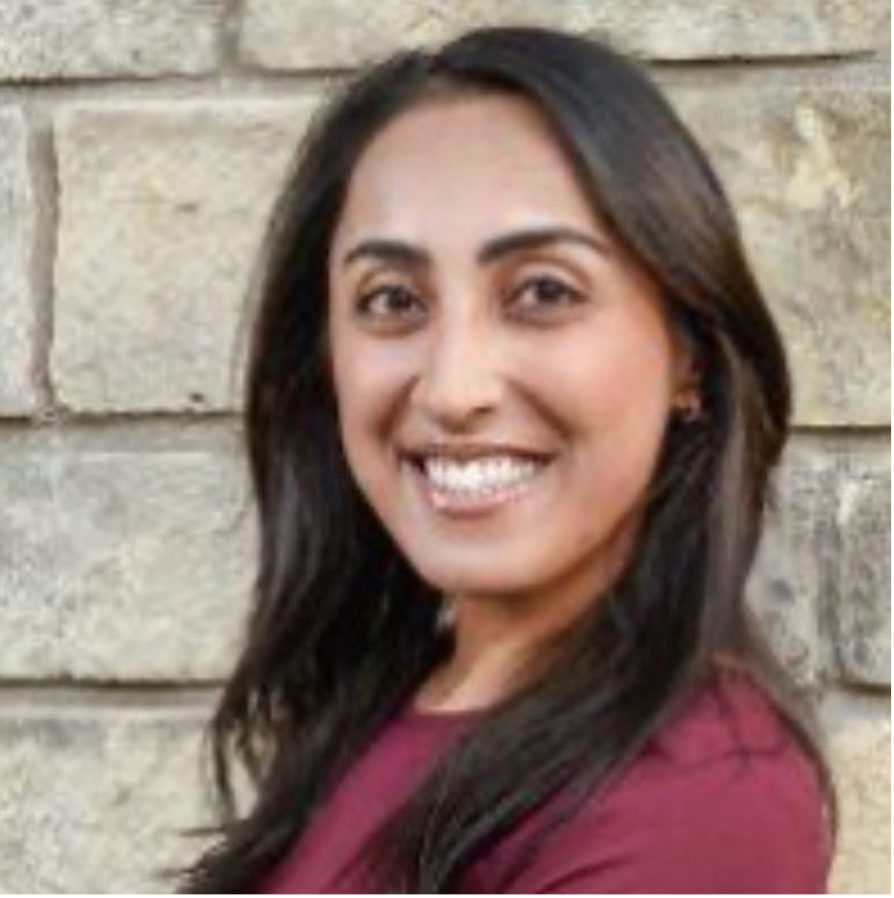
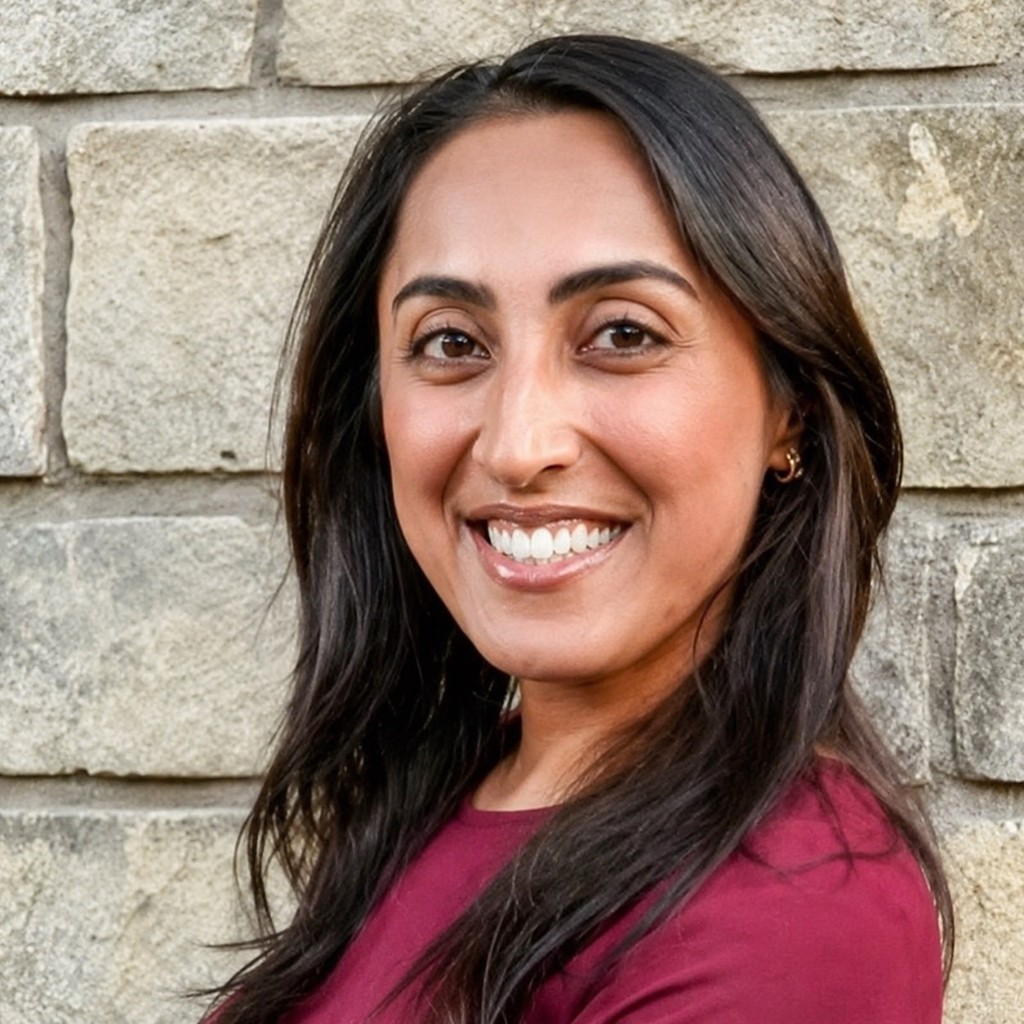
Polish programs content, donation drive imagery, and site navigation labels.
Fix Dr. Hina Khan speaker card layout, split donation drive card/modal photos, standardize fundraising stats, and update nav/page titles across the site.

diff --git a/components/programs/SpeakerEventCard.tsx b/components/programs/SpeakerEventCard.tsx
@@ -5,7 +5,9 @@ import Image from "next/image";
 import { Button } from "@/components/ui/Button";
 import { FadeIn } from "@/components/programs/FadeIn";
 import { ProgramDetailModal } from "@/components/programs/ProgramDetailModal";
-import { PROGRAM_CARD_IMAGE_CELL } from "@/components/programs/programCardLayout";
+import {
+  PROGRAM_CARD_IMAGE_CELL,
+} from "@/components/programs/programCardLayout";
 import type { GuestSpeakerEvent } from "@/lib/programs-content";
 
 type SpeakerEventCardProps = {
@@ -13,39 +15,132 @@ type SpeakerEventCardProps = {
   delay?: number;
 };
 
-export function SpeakerEventCard({ event, delay = 0 }: SpeakerEventCardProps) {
-  const [open, setOpen] = useState(false);
+function FitLeftImagePanel({
+  event,
+  variant,
+}: {
+  event: GuestSpeakerEvent;
+  variant: "card" | "modal";
+}) {
+  const eventImageClassName =
+    "className" in event.eventImage && event.eventImage.className
+      ? `${event.eventImage.className}${variant === "card" ? " transition-transform duration-500 group-hover:scale-[1.02]" : ""}`
+      : `object-cover${variant === "card" ? " transition-transform duration-500 group-hover:scale-[1.02]" : ""}`;
+
+  const containerClass =
+    variant === "modal"
+      ? "flex flex-col gap-2.5 overflow-hidden rounded-xl border hairline md:flex-row md:items-stretch md:aspect-[8/3]"
+      : "flex flex-col gap-2.5 overflow-hidden md:flex-row md:items-stretch md:aspect-[8/3]";
+
+  return (
+    <div className={containerClass}>
+      <div className="relative flex aspect-[3/4] w-full shrink-0 items-center justify-center bg-[var(--color-line)] md:aspect-auto md:h-full md:w-auto md:max-w-[45%]">
+        <Image
+          src={event.speakerImage.src}
+          alt={event.speakerImage.alt}
+          width={400}
+          height={533}
+          className="h-full w-full object-contain md:h-full md:w-auto md:max-h-full"
+          sizes={variant === "card" ? "240px" : "280px"}
+        />
+      </div>
+      <div className="relative aspect-[16/10] w-full min-h-0 flex-1 md:aspect-auto md:h-full">
+        <Image
+          src={event.eventImage.src}
+          alt={event.eventImage.alt}
+          fill
+          className={eventImageClassName}
+          sizes={variant === "card" ? "400px" : "500px"}
+        />
+      </div>
+    </div>
+  );
+}
+
+function CardImagePanel({ event }: { event: GuestSpeakerEvent }) {
+  const speakerImageClassName =
+    "className" in event.speakerImage && event.speakerImage.className
+      ? `${event.speakerImage.className} transition-transform duration-500 group-hover:scale-[1.02]`
+      : "object-cover object-top transition-transform duration-500 group-hover:scale-[1.02]";
   const eventImageClassName =
     "className" in event.eventImage
-      ? event.eventImage.className
+      ? `${event.eventImage.className} transition-transform duration-500 group-hover:scale-[1.02]`
       : "object-cover transition-transform duration-500 group-hover:scale-[1.02]";
+
+  if ("imageLayout" in event && event.imageLayout === "fit-left") {
+    return <FitLeftImagePanel event={event} variant="card" />;
+  }
+
+  return (
+    <div className="relative grid grid-cols-2 gap-0.5">
+      <div className={PROGRAM_CARD_IMAGE_CELL}>
+        <Image
+          src={event.speakerImage.src}
+          alt={event.speakerImage.alt}
+          fill
+          className={speakerImageClassName}
+          sizes="288px"
+        />
+      </div>
+      <div className={PROGRAM_CARD_IMAGE_CELL}>
+        <Image
+          src={event.eventImage.src}
+          alt={event.eventImage.alt}
+          fill
+          className={eventImageClassName}
+          sizes="288px"
+        />
+      </div>
+    </div>
+  );
+}
+
+function ModalImagePanel({ event }: { event: GuestSpeakerEvent }) {
+  const modalSpeakerImageClassName =
+    "className" in event.speakerImage && typeof event.speakerImage.className === "string"
+      ? event.speakerImage.className
+      : "object-cover object-top";
   const modalEventImageClassName =
-    "className" in event.eventImage ? event.eventImage.className : "object-cover";
+    "className" in event.eventImage && typeof event.eventImage.className === "string"
+      ? event.eventImage.className
+      : "object-cover";
+
+  if ("imageLayout" in event && event.imageLayout === "fit-left") {
+    return <FitLeftImagePanel event={event} variant="modal" />;
+  }
+
+  return (
+    <div className="grid grid-cols-2 gap-0.5 overflow-hidden rounded-xl border hairline">
+      <div className="relative aspect-[4/5] bg-[var(--color-line)]">
+        <Image
+          src={event.speakerImage.src}
+          alt={event.speakerImage.alt}
+          fill
+          className={modalSpeakerImageClassName}
+          sizes="300px"
+        />
+      </div>
+      <div className="relative aspect-[4/5] bg-[var(--color-line)]">
+        <Image
+          src={event.eventImage.src}
+          alt={event.eventImage.alt}
+          fill
+          className={modalEventImageClassName}
+          sizes="300px"
+        />
+      </div>
+    </div>
+  );
+}
+
+export function SpeakerEventCard({ event, delay = 0 }: SpeakerEventCardProps) {
+  const [open, setOpen] = useState(false);
 
   return (
     <>
       <FadeIn delay={delay}>
         <article className="group flex flex-col overflow-hidden rounded-xl border hairline bg-white shadow-sm transition-all duration-300 hover:-translate-y-0.5 hover:shadow-md">
-          <div className="relative grid grid-cols-2 gap-0.5">
-            <div className={PROGRAM_CARD_IMAGE_CELL}>
-              <Image
-                src={event.speakerImage.src}
-                alt={event.speakerImage.alt}
-                fill
-                className="object-cover object-top transition-transform duration-500 group-hover:scale-[1.02]"
-                sizes="288px"
-              />
-            </div>
-            <div className={PROGRAM_CARD_IMAGE_CELL}>
-              <Image
-                src={event.eventImage.src}
-                alt={event.eventImage.alt}
-                fill
-                className={eventImageClassName}
-                sizes="288px"
-              />
-            </div>
-          </div>
+          <CardImagePanel event={event} />
 
           <div className="flex flex-col p-5 md:p-6">
             <h3 className="text-lg font-semibold text-[var(--color-plum)]">{event.name}</h3>
@@ -78,26 +173,7 @@ export function SpeakerEventCard({ event, delay = 0 }: SpeakerEventCardProps) {
         maxWidth="2xl"
       >
         <div className="space-y-6">
-          <div className="grid grid-cols-2 gap-0.5 overflow-hidden rounded-xl border hairline">
-            <div className="relative aspect-[4/5] bg-[var(--color-line)]">
-              <Image
-                src={event.speakerImage.src}
-                alt={event.speakerImage.alt}
-                fill
-                className="object-cover object-top"
-                sizes="300px"
-              />
-            </div>
-            <div className="relative aspect-[4/5] bg-[var(--color-line)]">
-              <Image
-                src={event.eventImage.src}
-                alt={event.eventImage.alt}
-                fill
-                className={modalEventImageClassName}
-                sizes="300px"
-              />
-            </div>
-          </div>
+          <ModalImagePanel event={event} />
 
           <div>
             <h3 className="text-lg font-semibold text-[var(--color-plum)]">{event.title}</h3>

diff --git a/lib/programs-content.ts b/lib/programs-content.ts
@@ -5,7 +5,7 @@ export const PILLAR_NAV = [
 ] as const;
 
 export const SUPPORT_METRICS = [
-  { value: "$1,800+", label: "Raised" },
+  { value: "$1,800+", label: "raised" },
   { value: "65+", label: "Patients Supported" },
   { value: "100+", label: "Toys Donated" },
 ] as const;
@@ -31,7 +31,7 @@ export const FUNDRAISER_TIMELINE = [
     year: "2024",
     title: "Sickle Cell Disease Fundraiser",
     amount: "$300",
-    beneficiary: "Sickle cell disease awareness initiatives",
+    beneficiary: "The National Bleeding Disorders Foundation",
     description:
       "Student-led fundraising campaign focused on increasing awareness and supporting individuals affected by sickle cell disease.",
   },
@@ -39,7 +39,7 @@ export const FUNDRAISER_TIMELINE = [
     year: "2025",
     title: "BLOOM Endometriosis Fundraiser",
     amount: "$500",
-    beneficiary: "Endometriosis awareness initiatives",
+    beneficiary: "Endometriosis Research Center and Women's Hospital",
     description:
       "Community campaign supporting education, awareness, and advocacy for endometriosis.",
   },
@@ -95,7 +95,11 @@ export const DONATION_DRIVE_TIMELINE = [
       "Community members donated toys and comfort items to support hospitalized pediatric patients living with inflammatory bowel disease and other chronic health conditions.",
     badge: "Founding Initiative",
     highlighted: true,
-    image: { src: "/images/programs/toy-drive.jpg", alt: "Toy donations for Children's Health" },
+    image: {
+      src: "/images/programs/toy-drive.jpg",
+      alt: "Community members at the Children's Health toy donation drive",
+      className: "object-cover object-[center_40%]",
+    },
   },
 ] as const;
 
@@ -103,13 +107,13 @@ export const DONATION_DRIVES_CARD = {
   title: "Donation Drives",
   description:
     "Care packages, flare kits, and toy drives that bring comfort and joy to pediatric patients navigating chronic illness.",
-  images: [{ src: "/images/programs/toy-drive.jpg", alt: "Toy donations for Children's Health" }],
+  images: [{ src: "/images/programs/toy-drive-card.png", alt: "Toy donations for Children's Health" }],
   metrics: [{ value: "65", label: "toys donated" }],
 } as const;
 
 export const SUPPORT_CARDS = [
   {
-    title: "Micro-Grants",
+    title: "Micro-grant Relief Program",
     description:
       "Need-based micro-grants providing financial assistance for healthcare-related expenses and day-to-day support.",
     images: [{ src: "/images/watercolor-paper.svg", alt: "Micro-grants program illustration" }],
@@ -231,11 +235,15 @@ export const GUEST_SPEAKER_EVENTS = [
     metric: "129 people educated",
     description:
       "Focused on endometriosis education, patient awareness, and improving early diagnosis through medical literacy.",
-    speakerImage: { src: "/images/podcast/webinars/dr-hina-khan.png", alt: "Dr. Hina Khan" },
+    imageLayout: "fit-left" as const,
+    speakerImage: {
+      src: "/images/podcast/webinars/dr-hina-khan.png",
+      alt: "Dr. Hina Khan",
+    },
     eventImage: {
       src: "/images/podcast/webinars/dr-hina-khan-event.png",
       alt: "Endometriosis educational webinar with 129 participants",
-      className: "object-cover object-right",
+      className: "object-cover",
     },
   },
   {

diff --git a/components/programs/ImpactTimelineModal.tsx b/components/programs/ImpactTimelineModal.tsx
@@ -18,7 +18,7 @@ export type TimelineEntry = {
   icon?: TimelineEntryIcon;
   badge?: string;
   highlighted?: boolean;
-  image?: { src: string; alt: string };
+  image?: { src: string; alt: string; className?: string };
   gallery?: readonly { src: string; alt: string }[];
 };
 
@@ -328,7 +328,7 @@ function TimelineList({
                           src={entry.image.src}
                           alt={entry.image.alt}
                           fill
-                          className="object-cover"
+                          className={entry.image.className ?? "object-cover"}
                           sizes="(max-width: 672px) 100vw, 672px"
                         />
                       </div>

diff --git a/lib/site-content.ts b/lib/site-content.ts
@@ -22,14 +22,14 @@ export const HOME_STATS = [
   { value: "162,347+", label: "People reached" },
   { value: "15+", label: "Events hosted" },
   { value: "3+", label: "Schools/communities engaged" },
-  { value: "$1,800+", label: "Funds raised" },
+  { value: "$1,800+", label: "raised" },
 ] as const;
 
 export const IMPACT_STATS = [
   { value: "162,347+", label: "People reached" },
   { value: "15+", label: "Events hosted" },
   { value: "3+", label: "Schools/communities engaged" },
-  { value: "$1,500+", label: "Funds raised" },
+  { value: "$1,800+", label: "raised" },
   { value: "65+", label: "Patients supported" },
 ] as const;
 

diff --git a/components/Footer.tsx b/components/Footer.tsx
@@ -3,12 +3,12 @@ import Image from "next/image";
 import { Instagram, Mail } from "lucide-react";
 
 const links = [
-  { href: "/about", label: "About" },
-  { href: "/programs", label: "Programs" },
+  { href: "/about", label: "About Us" },
+  { href: "/programs", label: "Our Programs" },
   { href: "/impact", label: "Impact" },
   { href: "/events", label: "Events" },
   { href: "/get-involved", label: "Get Involved" },
-  { href: "/micro-grants", label: "Micro-Grants" },
+  { href: "/micro-grants", label: "Micro-grant Relief Program" },
   { href: "/contact", label: "Contact" },
 ];
 

diff --git a/components/Navbar.tsx b/components/Navbar.tsx
@@ -8,9 +8,9 @@ import { Menu, X } from "lucide-react";
 import { Button } from "./ui/Button";
 
 const navLinks = [
-  { href: "/about", label: "About" },
-  { href: "/programs", label: "Programs" },
-  { href: "/micro-grants", label: "Micro-Grants" },
+  { href: "/about", label: "About Us" },
+  { href: "/programs", label: "Our Programs" },
+  { href: "/micro-grants", label: "Micro-grant Relief Program" },
   { href: "/impact", label: "Impact" },
   { href: "/events", label: "Events" },
   { href: "/get-involved", label: "Get Involved" },

diff --git a/components/programs/DonationDrivesCard.tsx b/components/programs/DonationDrivesCard.tsx
@@ -21,7 +21,7 @@ export function DonationDrivesCard({ delay = 0 }: { delay?: number }) {
               src={card.images[0].src}
               alt={card.images[0].alt}
               fill
-              className="object-cover transition-transform duration-500 group-hover:scale-[1.02]"
+              className="object-cover object-[center_50%] transition-transform duration-500 group-hover:scale-[1.02]"
               sizes="576px"
             />
           </div>

diff --git a/app/about/page.tsx b/app/about/page.tsx
@@ -28,7 +28,7 @@ export default function AboutPage() {
     <>
       <Navbar />
       <main>
-        <PageHeader title="About us" description="Our story and the team behind Heart to Heart." />
+        <PageHeader title="About Us" description="Our story and the team behind Heart to Heart." />
 
         <section className="section-padding">
           <div className="container-full max-w-3xl">

diff --git a/app/programs/page.tsx b/app/programs/page.tsx
@@ -27,7 +27,7 @@ export default function ProgramsPage() {
       <Navbar />
       <main>
         <PageHeader
-          title="Programs"
+          title="Our Programs"
           description="Improving outcomes for individuals living with chronic illnesses through support, education, and awareness."
         />
         <PillarNav />

diff --git a/components/home/PillarsSection.tsx b/components/home/PillarsSection.tsx
@@ -38,7 +38,7 @@ export function PillarsSection() {
                   {pillar.description}
                 </p>
                 <Link href={pillar.href} className="link-arrow">
-                  Programs
+                  Our Programs
                   <ArrowUpRight size={14} />
                 </Link>
               </article>

diff --git a/app/micro-grants/page.tsx b/app/micro-grants/page.tsx
@@ -79,7 +79,7 @@ export default function MicroGrantsPage() {
             </div>
 
             <Button href={SITE.microGrantFormUrl} external>
-              Application form
+              Application Form
             </Button>
           </div>
         </section>
